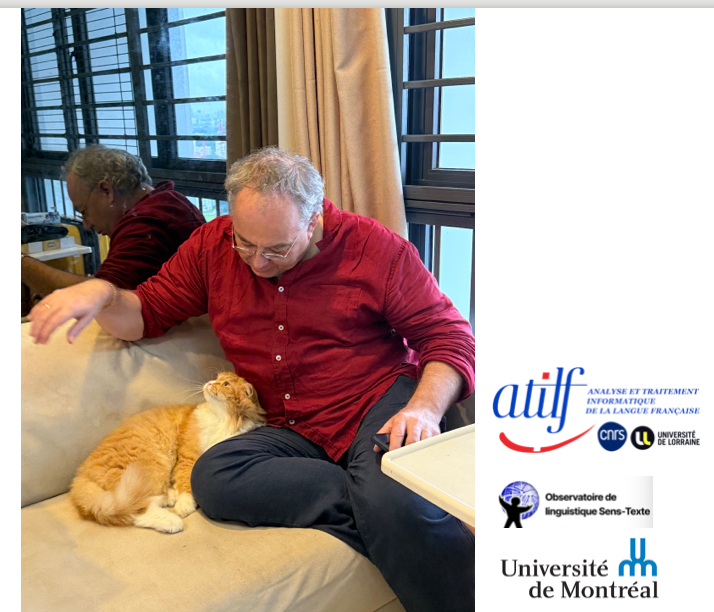
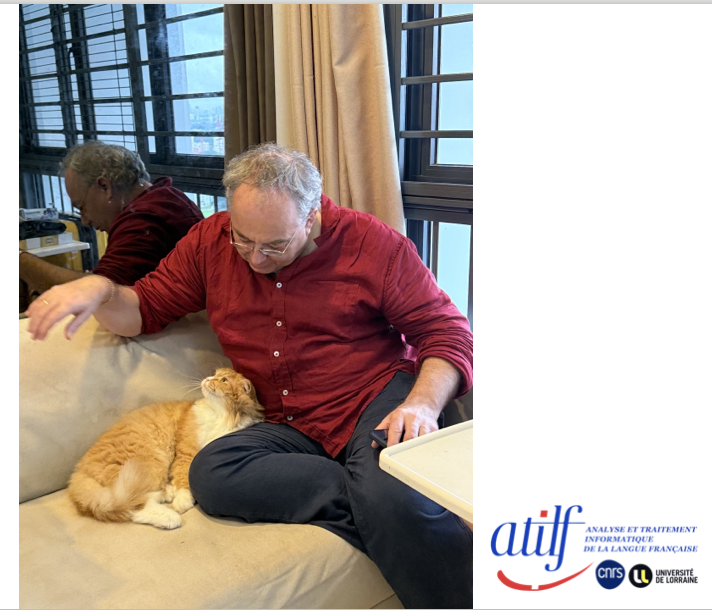
Add files via upload

diff --git a/index.html b/index.html
@@ -317,7 +317,7 @@
 
 											<div class="col-6 col-12-small">
 												<section class="box">
-													<a href="#" class="image featured"><img src="images/polguere.png" alt="" /></a>
+													<a href="#" class="image featured"><img src="images/polguere2.png" alt="" /></a>
 													<header>
 														<h3>International Seminar <br>
 															Alain POLGUÈRE <br>
